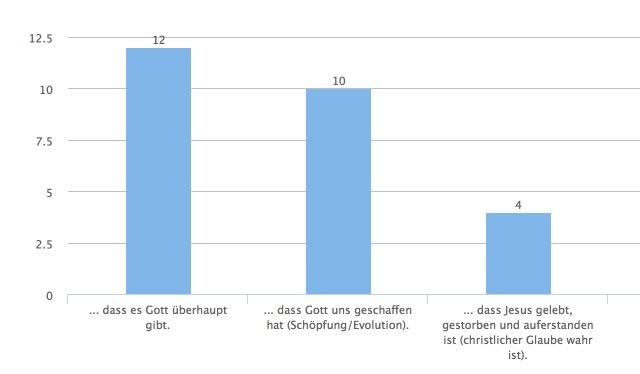
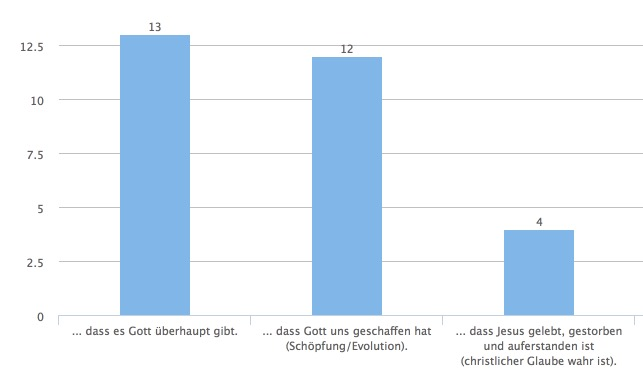
Ergebnisse Umfrage, Zwischenstand Leid/Boese

diff --git a/einheiten/glaube_und_zweifel/docs/themes/theodizee.md b/einheiten/glaube_und_zweifel/docs/themes/theodizee.md
@@ -1,0 +1,76 @@
+
+# Warum Leid
+
+    Warum gibt es soviel Leid in der Welt,
+    wenn es einen guten und allmächtigen Gott gibt?
+
+Dies wird klassisch als Argument gegen den christlich/judäischen Gott vergebracht. Das Leid ist demnach nur erklärbar, wenn
+
+- Gott nicht allmächtig ist => Er **kann** das Leid nicht verhindern.
+- Gott nicht gut ist => Er **will** das Leid nicht verhindern.
+- Es Gott überhaupt nicht gibt.
+
+Wenn dieses Argument von Jemanden vorgebracht wird, ist es meist mit einem starken emotionalen eigenem Hintergrund verbunden (erfahrenes Leid) siehe. Daher ist die philosophisch korrekte Antwort hierauf nur bedingt hilfreich. 
+
+Zunächst möchten wir aber klar darstellen, warum es ein schlechte Argument gegen Gottes Existenz ist.
+
+## Das Böse - ein Argument gegen Gott?
+
+Zunächst wäre zu klären, ob das Problem wirklich existiert. Gibt es das Böse in unserer Welt? Kann man sagen, dass eine Sache (z.B. das Leiden unschuldiger Kinder) falsch ist?
+
+Das Problem an einer Welt ohne Gott ist, dass man nur sehr schwere moralische Absolutheiten festlegen kann. Die verbreitete Ansicht ist:
+
+- Es gibt keine objektiven universellen moralischen Standards. Alles ist relativ.
+- Die Gesellschaft bestimmt die Regeln und legt fest, was richtig und falsch ist.
+
+Wenn die Gesellschaft die Regeln festlegt, dann kann man eigentlich nicht sagen, dass etwas wirklich objektiv falsch ist. Wenn also eine Gesellschaft beschließt, dass es OK ist, "kleine Kinder aus Spaß zu quälen", dann ist es dann auch OK. Wenn richtig/falsch nur nach dem Geschmack der Gesellschaft bestimmt wird, dann gibt es richtig/falsch nicht (in einem ultimativen absoluten Sinn). 
+
+Überspitzt gesagt könnte man das Argument gegen Gott dann auch so formulieren:
+
+- "Ich kann nicht an Gott glauben!"
+- "Warum nicht?"
+- "Rosenkohl!"
+- "Rosenkohl? Was hat der denn mit irgendwas zu tun?"
+- "Hast du die Dinger schon mal probiert? Die schmecken schrecklich! Ich kann nicht an einen Gott glauben, der etwas schafft, was für mich so schrechlich schmeckt."
+
+Wenn man hingegegen an objektive Moral glaubt, also dass es Dinge gibt, die einfach **immer** falsch sind, **egal** was ein Mensch - oder **alle** Menschen - sagen, dann ist die Frage, wer denn diesen absoluten Standard bestimmt. Es gibt da nicht wirklich viele Kandidaten neben Gott.
+
+Wir haben also ein interessantes Dilemma:
+
+- Wenn Moral nur eine Frage des persönlichen Geschmacks ist, dann verschwindet der Widerspruch. Wenn es kein wirkliches Richtig oder Falsch gibt, wie können wir Gott dann für etwas verantwortlich machen, was es nicht gibt?
+- Wenn man aber an objektives Richtig/Falsch glaubt, dann muss man sich fragen, wo der Standard herkommt? 
+
+In dem Film "The Quarell" erklärt Rabbi Hersh es dem suklaren Chiam so:
+
+    Wenn es im Universum nichts gibt, was Größer ist, als wir Menschen was ist dann Moral?
+    Nun, es ist eine Frage der Meinung. 
+    Ich mag Milch, du magst Fleisch.
+    Hitler mag es Leute zu töten. Ich mag es sie zu retten.
+    Wer vermag zu sagen was besser ist?
+
+    Kannst du den Horror hierin erkennen?
+    Wenn es keinen Meister des Universums gibt, wer kann dann sagen, 
+    dass Hitler irgendwas falsch gemacht hat?
+    Wenn es keinen Gott gibt, dann haben die Menschen, 
+    die deine Frau und Kinder umgebracht haben nichts Falsches gemacht.
+
+
+## Erklärungen für das Lied
+
+In der Philosophie ist und wird diese Frage diskutiert. Der Stand dabei ist, dass wir schlicht nicht in der Lage sind, Gott nachweisen zu können, dass er eine Welt mit weniger Leid hätte schaffen können. Es ist gut möglich, dass gegeben, dass solche Dinge wie Liebe und Freier Wille wervolle Dinge sind wir in der besten aller mögliche Welten leben.
+
+
+### Was hat Gott getan?
+
+1. Gott hat die Institutionen Familie, Gemeinde und Regierung ([z.B. Römerbrief](http://www.bibleserver.com/text/NGÜ/Römer13,1-4)) geschaffen um die Verbreitung des Bösen zu minimieren.
+2. Gott gibt seinen Heiligen Geist um die Kraft des Bösen in unserem persönliche Leben zu überwinden.
+3. Gott wird einmal alles Böse aus seiner Schöpfung entfernen.
+4. Gott sandte seinen Sohn für böse Menschen und bietet Vergebung statt gerecher Strafe an.
+
+
+
+
+
+
+
+

diff --git a/einheiten/glaube_und_zweifel/docs/index.md b/einheiten/glaube_und_zweifel/docs/index.md
@@ -10,13 +10,20 @@ Die Einheit heisst: "**Glaube und Zweifel – Strategien für ein tragfähiges G
 
 ## Umfrage
 
-Umfrage an Hauskreisleiter während der Vorbereitung zum Sammeln der relevaten Fragen. Umfrage ist unter [www.umbuzoo.de/q/fegacademy1](https://www.umbuzoo.de/q/fegacademy1)
+Die Hauskreisleiter und Teilnehmer konnten an einer Umfrage teilnehmen. Es haben sich 45 Leute beteiligt. Daraus haben sich folgende Schwerpunkte ergeben:
+
+- Existenz Gottes
+- Schöpfung
+- Theodizee Frage
+- Errettung
 
 ### Ergebnisse
 
-Zwischenstand am 10.04.2015
+Alle Eingaben unter: [Glaube_und_Zweifel.xlsx](files/Glaube_und_Zweifel.xlsx)
 
-Thema | Ergebnisse
+#### Übersicht
+
+Thema | Ergebniss
 ---------- | -------------
 **Grundlagen** | ![](images/survey_basics.jpg)
 **Theologisches** | ![](images/survey_theo.jpg)

diff --git a/einheiten/glaube_und_zweifel/docs/themes/auferstehung.md b/einheiten/glaube_und_zweifel/docs/themes/auferstehung.md
@@ -3,7 +3,7 @@
 
 Die Einwände/Zweifel die sich oft Stellen sind z.B.:
 
-* Jesus war garnicht tot
+* Jesus war gar nicht tot
 * Die Jünger haben halluziniert. Sie haben es sich einfach soo sehr gewünscht das er weiterlebt.
 * Wieso ist das eigentlich so wichtig ob Jesus wirlkich auferstanden ist ? Es zählt doch nur das die Jünger ihn weiterhin in ihrem Herzen hatten
 * Das ist doch alles nur Legende. Die Jünger legen Jesus Sachen in den Mund und glorifizieren ihn übermäßig nach seinem Tod.
